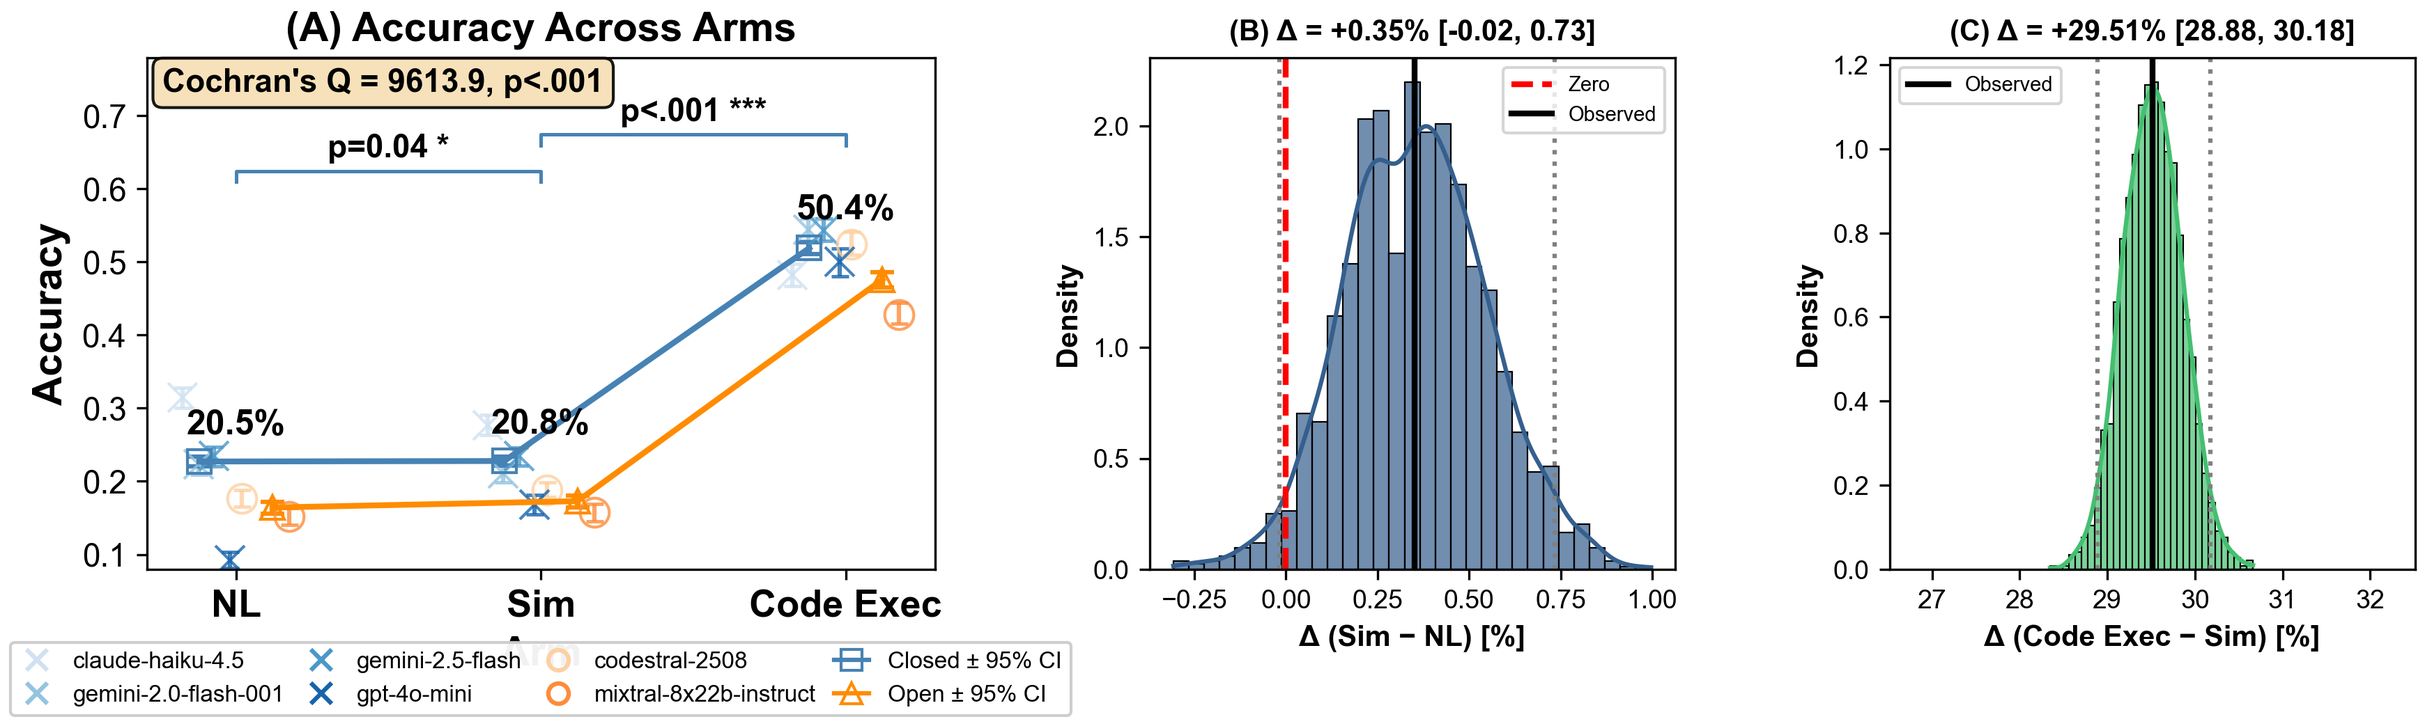
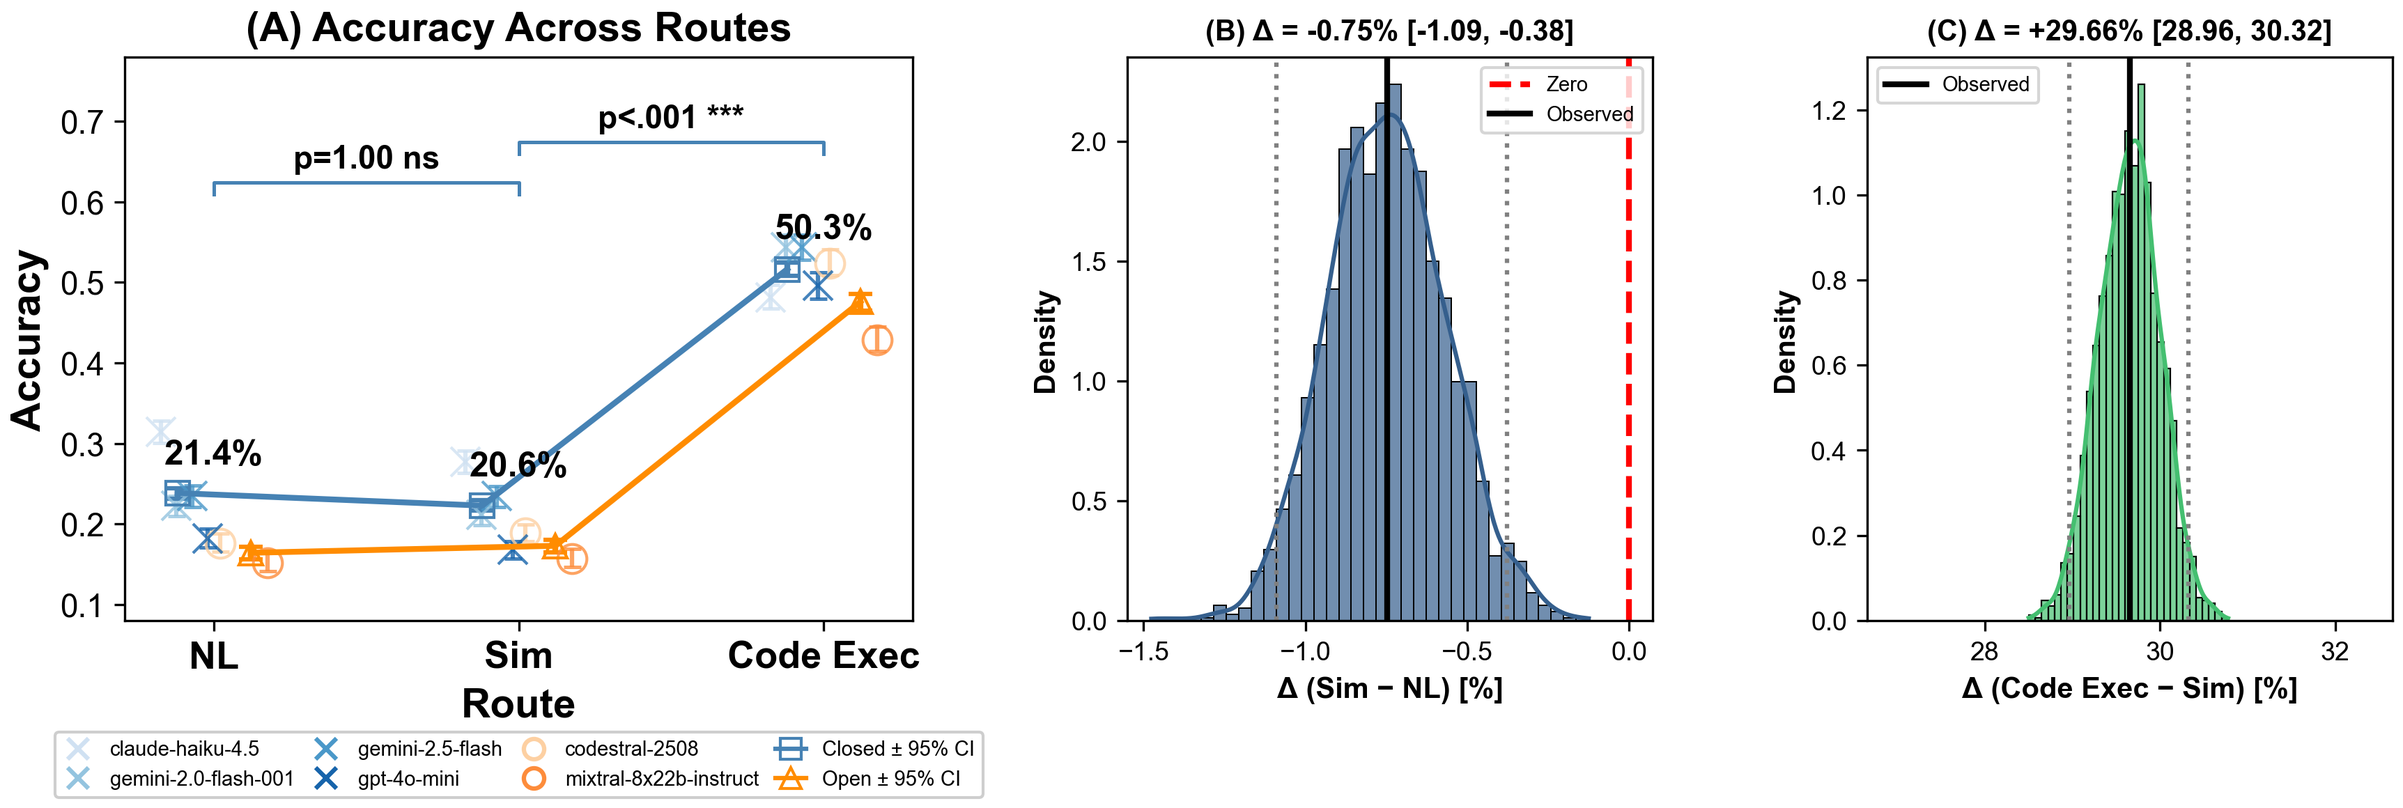
Updates from Overleaf

diff --git a/sections/1_introduction.tex b/sections/1_introduction.tex
@@ -1,6 +1,6 @@
 \section{Introduction} \label{sec:intro}
 
-Many agentic systems orchestrate symbolic solvers, LLMs and other tools, and demonstrate state-of-the-art performance ~\cite{gao2023pal,yao2023react, 10.5555/3666122.3669119, yang2024sweagent,wang2025mcpbenchbenchmarkingtoolusingllm}. Prior research empirically demonstrates that translating problems into solver-executable code representations (hereafter coined Route 2) and delegating execution often outperforms reasoning end-to-end in NL (hereafter coined Route 1) \yu{I am a bit confused what is hereafter coined Route 1, also you should link figure 1 in the introduction} on logic- and algorithmic-style complex reasoning tasks ~\cite{lyu2023faithful, pan2023logic}. However, it is unclear whether benefits come from the more structured code representation itself used in the planning and reasoning process, or the reliability of external solvers, or both. Little progress has been made in this direction since the problem itself is ill-posed: two routes learn fundamentally different objects, so there is no common formal target and metric to compare. 
+Many agentic systems orchestrate symbolic solvers, LLMs and other tools, and demonstrate state-of-the-art performance ~\cite{gao2023pal,yao2023react, 10.5555/3666122.3669119, yang2024sweagent,wang2025mcpbenchbenchmarkingtoolusingllm}. Prior research empirically demonstrates that translating problems into solver-executable code representations (hereafter denoted Route 2) and delegating execution often outperforms reasoning end-to-end in NL (hereafter denoted Route 1) on logic- and algorithmic-style complex reasoning tasks ~\cite{lyu2023faithful, pan2023logic}. However, it is unclear whether benefits come from the more structured code representation itself used in the planning and reasoning process, or the reliability of external solvers, or both. Little progress has been made in this direction since the problem itself is ill-posed: two routes learn fundamentally different objects, so there is no common formal target and metric to compare. 
 
 \begin{figure}[t]
     \centering
@@ -11,9 +11,19 @@ Many agentic systems orchestrate symbolic solvers, LLMs and other tools, and dem
     \label{fig:three_routes}
 \end{figure}
 
-This paper presents a systematic three-route framework (\cref{sec:framework}) breaks down the question into tractable pairwise comparisons between the different routes. We decouple the end-to-end pipeline into a trace generation phase (e.g. Chain of Thought \cite{wei2022chain}) and an execution phase (see \cref{def:trace}). This allows us to fix one phase, and make causal claims on the effects of phase on end-to-end reasoning performance. We first instantiate this framework to verify the overall ordering Route 1 (NL + NL Reasoning) $\leq$ Route 2 (Code + NL Reasoning) $<$ Route 3 (Code +  Python Execution) holds (\cref{sec:empirical}). Solver-based execution results (+29.9\% v.s. NL reasoning)  in best performance across different models \texttt{(Mistral}~\cite{jiang2023mistral}, \texttt{OpenAI}~\cite{achiam2023gpt4}, \texttt{Gemini}~\cite{team2023gemini}, \texttt{Claude}~\cite{anthropic2024claude}).), tasks \texttt{(CLRS30}~\cite{velivckovic2022clrs}, \texttt{NP-Hard-Eval}~\cite{fan2023nphardeval}, Custom Eval Suite) and seeds $\{0,1,2\}$. Our results suggest Route 3 (Code + Python Execution) is optimal (\cref{fig:main,fig:per_task_accuracy}). To understand where language is bottlenecked, we operationalize our framework below. 
 
-When analyzing the pair Route 1 v.s. Route 2 (\cref{sec:rep_analysis}), we fix the execution phase to be a LLM with NL reasoning, and vary the representation \yu{representation modality} of its Chain-of-Thought to be either code or NL. Because our goal is to optimize the end-to-end reasoning pipeline rather than any particular instantiation of it, we evaluate representations and executors in terms of their computation-constrained optimal risk (hereafter optimal risk; \cref{def:risk}). This criterion captures the best achievable performance within a model family and abstracts away suboptimal prompt or executor choices. We propose sufficient conditions such that the optimal risk of code is never worse than language up to a small amount of error $\varepsilon$ (\cref{prop:dominance}). Furthermore, we empirically verify these conditions through two experiments that show that natural language is an approximate garbling of code (\cref{sec:dist_similarity,sec:func_similarity}).
+\begin{figure*}[t]
+    \centering
+    \vspace{-5pt}
+    \includegraphics[width=1\textwidth]{images/CleanShot 2026-01-28 at 16.25.56@2x.png}
+    \vspace{-25pt}
+    \caption{\textbf{Prompt templates for three-route evaluation.} \textbf{Route~1 (NL)}: LLM reasons in natural language only, code forbidden. \textbf{Route~2 (Sim)}: LLM generates Python \texttt{solution()} then simulates execution in NL. \textbf{Route~3 (Code)}: Same code executed in Python runtime. This isolates execution mechanism while controlling translation.}
+    \label{fig:route_prompts}
+\end{figure*}
+
+This paper presents a systematic three-route framework (\cref{fig:three_routes}) breaks down the question into tractable pairwise comparisons between the different routes. We decouple the end-to-end pipeline into a trace generation phase (e.g. Chain of Thought \cite{wei2022chain}) and an execution phase (see \cref{def:trace}). This allows us to fix one phase, and make causal claims on the effects of phase on end-to-end reasoning performance. We first instantiate this framework to verify the overall ordering Route 1 (NL + NL Reasoning) $\leq$ Route 2 (Code + NL Reasoning) $<$ Route 3 (Code +  Python Execution) holds (\cref{sec:empirical}). Solver-based execution results (+28.9\% v.s. NL reasoning)  in best performance across different models \texttt{(Mistral}~\cite{jiang2023mistral}, \texttt{OpenAI}~\cite{achiam2023gpt4}, \texttt{Gemini}~\cite{team2023gemini}, \texttt{Claude}~\cite{anthropic2024claude}).), tasks \texttt{(CLRS30}~\cite{velivckovic2022clrs}, \texttt{NP-Hard-Eval}~\cite{fan2023nphardeval}, Custom Eval Suite) and seeds $\{0,1,2\}$. Our results suggest Route 3 (Code + Python Execution) is optimal (\cref{fig:main,fig:per_task_accuracy}). To understand where language is bottlenecked, we operationalize our framework below. 
+
+When analyzing the pair Route 1 v.s. Route 2 (\cref{sec:rep_analysis}), we fix the execution phase to be a LLM with NL reasoning, and vary the representation modality of its Chain-of-Thought to be either code or NL. Because our goal is to optimize the end-to-end reasoning pipeline rather than any particular instantiation of it, we evaluate representations and executors in terms of their computation-constrained optimal risk (hereafter optimal risk; \cref{def:risk}). This criterion captures the best achievable performance within a model family and abstracts away suboptimal prompt or executor choices. We propose sufficient conditions such that the optimal risk of code is never worse than language up to a small amount of error $\varepsilon$ (\cref{prop:dominance}). Furthermore, we empirically verify these conditions through two experiments that show that natural language is an approximate garbling of code (\cref{sec:dist_similarity,sec:func_similarity}).
 
 We further analyze Route 2 v.s. Route 3 (\cref{sec:route2v3}), identifying execution to be the bottleneck. We find that when code is correct, execution always achieves lower expected loss than language, and when code is incorrect, the probability that Route 2 $>$ Route 3 is small. On an analysis of hardness scaling, we find that code execution (Route 3) scales much better as problems become more difficult, and that the probabilities of Route 2 $>$ Route 3 when code is wrong reduces as problems get harder. 
 % \yu{too dense, each paragraph should only have one focus, and some claims sound handwavy/overconfident, e.g., hinting at trace generation not being the bottleneck, (i.e. looks similar),}
@@ -33,14 +43,6 @@ We further analyze Route 2 v.s. Route 3 (\cref{sec:route2v3}), identifying execu
 
 % showing that the simulation route is at least as good as the direct route under mild regularity assumptions: the direct route is a Blackwell-garbled (information-degraded) version of the simulation route, and thus cannot be more informative for downstream decision-making. Finally, we empirically demonstrate that the solver route substantially outperforms the simulation route, highlighting additional gains from reliable external execution.
 
-\begin{figure*}[t]
-    \centering
-    \vspace{-5pt}
-    \includegraphics[width=1\textwidth]{images/CleanShot 2026-01-28 at 16.25.56@2x.png}
-    \vspace{-25pt}
-    \caption{\textbf{Prompt templates for three-route evaluation.} \textbf{Route~1 (NL)}: LLM reasons in natural language only, code forbidden. \textbf{Route~2 (Sim)}: LLM generates Python \texttt{solution()} then simulates execution in NL. \textbf{Route~3 (Code)}: Same code executed in Python runtime. This isolates execution mechanism while controlling translation.}
-    \label{fig:route_prompts}
-\end{figure*}
 
 % Using our framework, we consistently observe a three-route ordering across algorithmic reasoning tasks: the solver route performs best, followed by the simulation route, and then the direct route (\cref{fig:main,fig:per_task_accuracy}). Moreover, the solver route's advantage widens as task difficulty increases, with 4.01$\times$ odds of getting a correct answer for code over natural language reasoning. We evaluate our framework on CLRS30~\cite{velivckovic2022clrs}, NP-Hard-Eval~\cite{fan2023nphardeval}, and a custom suite of algorithmic problems with controllable difficulty (addition, multiplication, LCS, rod cutting, knapsack, and ILP variants: assignment, production, and partition) across a broad range of models, spanning weaker open-source LLMs (e.g., Mistral~\cite{jiang2023mistral}, LLaMA~\cite{touvron2023llama}, Qwen~\cite{yang2024qwen2}) and stronger closed-source systems (e.g., OpenAI~\cite{achiam2023gpt4}, Gemini~\cite{team2023gemini}, Claude~\cite{anthropic2024claude}). We find that, averaged over tasks and models, the solver route achieves XX\% accuracy, outperforming the simulation route (XX\%) and the direct route (XX\%) with statistical significance (XX). 
 
@@ -86,8 +88,8 @@ Our main contributions are:
 \begin{figure*}[t]
     \centering
     \vspace{-5pt}
-    \includegraphics[width=1\textwidth]{images/combined_accuracy_delta.png}
-    \vspace{-25pt}
+    \includegraphics[width=0.85\textwidth]{images/combined_accuracy_delta.png}
+    \vspace{-10pt}
     \caption{\textbf{Code + Solver Execution performs better than Direct NL reasoning quantified by end-task accuracy overall and within paired instances.} Paired instance contrasts are shown in the bootstrap distributions. Results are averaged over CLR30, NPHardEval, Custom Eval Suite, 3 seeds and 6 models. }
     \label{fig:main}
 \end{figure*}

diff --git a/sections/6_conclusion.tex b/sections/6_conclusion.tex
@@ -1,14 +1,16 @@
 \section{Conclusion}
 \label{sec:conclusion}
-We introduced a three-route Bayesian framework (\cref{sec:framework}) for comparing code and natural language representations in algorithmic reasoning. By introducing an intermediate route---code generation with LLM-based simulation---we isolate translation effects from execution effects, enabling tractable pairwise analysis. Empirically, code execution achieves 4.01$\times$ higher odds of correctness than NL reasoning ($p<0.001$) across 44 algorithmic tasks and 6 models (\cref{sec:performance}). Our causal intervention experiments (\cref{sec:rep_analysis}) demonstrate that NL reasoning traces are distributionally and functionally equivalent to code-translated traces, supporting the hypothesis that NL reasoning implicitly simulates underlying algorithmic computations for specific models,tasks and prompts. Theoretically, we prove that code-based reasoning achieves lower Bayes risk via Blackwell dominance (\cref{prop:dominance}), providing an information-theoretic explanation for the empirical advantages of solver-based pipelines.
+We introduced a three-route framework (\cref{sec:framework}) for comparing code and natural language representations in algorithmic reasoning. By introducing an intermediate route---code generation with LLM-based simulation---we isolate translation effects from execution effects, enabling tractable pairwise analysis. Empirically, code execution achieves +28.9\% v.s. NL across 48 algorithmic tasks and 6 models (\cref{sec:performance}). Our causal intervention experiments (\cref{sec:rep_analysis}) demonstrate that NL reasoning traces are distributionally and functionally equivalent to code-translated traces, supporting the hypothesis that NL reasoning implicitly simulates underlying algorithmic computations for specific models,tasks and prompts. Theoretically, we prove that code-based reasoning achieves lower Bayes risk via Blackwell dominance (\cref{prop:dominance}), providing an information-theoretic explanation for the empirical advantages of solver-based pipelines.
 
-\paragraph{Limitations}
+\textbf{Limitations.} (1)~\emph{Task scope}: Our evaluation focuses on algorithmic tasks (arithmetic, DP, ILP) with well-defined ground truth; results may not generalize to open-ended reasoning or tasks without clear algorithmic structure. (2)~\emph{Empirical approximations}: Our distributional similarity tests use finite samples and specific judge models, introducing estimation variance. Furthermore, there is room for optimization with the prompts of both judges and translators, or even running SFT on them. (3)~\emph{Model coverage}: While we evaluate both frontier (GPT-4o, Claude, Gemini) and open-source models (Mistral, Codestral), we cannot guarantee findings generalize to all architectures or future models. (4)~\emph{Theoretical assumptions}: The statistical analysis result assumes the existence of a garbling channel from code to NL, which we validate empirically but do not prove from first principles.
 
-\paragraph{Future Work}
+
+% \paragraph{Limitations}
+
+% \paragraph{Future Work}
 
 \section{Impact Statement}
 This paper presents work whose goal is to advance the field of machine learning. There are many potential societal consequences of our work, none of which we feel must be specifically highlighted here.
 
 
-% \textbf{Limitations.} (1)~\emph{Task scope}: Our evaluation focuses on algorithmic tasks (arithmetic, DP, ILP) with well-defined ground truth; results may not generalize to open-ended reasoning or tasks without clear algorithmic structure. (2)~\emph{Empirical approximations}: Our distributional similarity tests use finite samples and specific judge models, introducing estimation variance. (3)~\emph{Model coverage}: While we evaluate both frontier (GPT-4o, Claude, Gemini) and open-source models (Mistral, LLaMA), we cannot guarantee findings generalize to all architectures or future models. (4)~\emph{Theoretical assumptions}: The Blackwell dominance result assumes the existence of a garbling channel from code to NL, which we validate empirically but do not prove from first principles.
 

diff --git a/sections/3_experiment.tex b/sections/3_experiment.tex
@@ -2,7 +2,7 @@
 \label{sec:empirical}
 Our evaluation aims to answer the research questions (RQ): 
 \begin{enumerate}
-    \item[1)] Does $\text{Route~1} \simeq \text{Route~2} < \text{Route~3}$ hold? (\S\ref{sec:instantiation}, \S\ref{sec:performance})
+    \item[1)] Does $\text{Route~1} \leq \text{Route~2} < \text{Route~3}$ hold? (\S\ref{sec:instantiation}, \S\ref{sec:performance})
 \end{enumerate}
  % RQ 1 is central to the main thesis, and RQ 2 provides motivation to offload to an executor, as well as empirical foundations for the assumptions in  Section~\ref{sec:theory}.
 
@@ -122,8 +122,7 @@ Across all benchmarks (\cref{fig:main}), we reject the global null hypothesis
 \emph{Post-hoc tests show a statistically significant advantage of Route~3
 over Route~2}, with a positive paired accuracy gap excluding zero in the
 95\% confidence interval.
-For Route~1 vs.\ Route~2, although the null is rejected ($p = 0.04$), the
-bootstrap confidence interval overlaps zero, indicating that we cannot
+For Route~1 vs.\ Route~2 we do not reject the null, indicating that we cannot
 conclude a meaningful difference between natural-language reasoning
 and code simulation under this evaluation.
 Performance gaps widen with increasing task difficulty (\cref{fig:per_task_accuracy}): Route~3 remains
@@ -317,7 +316,7 @@ As a calibration control, we also ask the same judges to discriminate \emph{raw 
 \end{figure}
 
 \paragraph{Results.}
-Across $\sim$2000 samples per judge ($\sim$6000 total across three judges), discrimination accuracy is near chance (50\%), with 50\% included in the Wilson CI (\cref{fig:judge_barplot,fig:embedding_scatter}). The control discrimination between raw code and native NL is substantially higher (e.g., $\approx$79\%), indicating the judges can detect obvious representation differences but \emph{fail to distinguish translated vs.\ native NL}.
+Across $\sim$2000 samples per judge ($\sim$6000 total across three judges), discrimination accuracy is near chance (50\%), with 50\% included in the Wilson CI (\cref{fig:judge_barplot,fig:embedding_scatter}). The control discrimination between raw code and native NL is substantially higher (e.g., $\approx$82\%), indicating the judges can detect obvious representation differences but \emph{fail to distinguish translated vs.\ native NL}.
 
 % (49.4\% with 95\% Wilson CI [47.2\%, 51.5\%]; Figure~\ref{fig:discrimination_by_task}).
 
@@ -341,7 +340,7 @@ If translated NL loses decision-relevant information relative to native NL, we w
 \]
 
 \paragraph{Protocol and models.}
-We run this test on 1000 held-out instances across multiple translator models (\texttt{Claude Haiku 4.5, Gemini-2.5-Flash, Mixtral-8x22B-Instruct}).
+We run this test on 1000 held-out instances across multiple translator models (\texttt{Claude-Haiku-4.5, Gemini-2.5-Flash, Mixtral-8x22B-Instruct}).
 Crucially, in this experiment the translator model is matched to the original code generator (i.e., we translate code produced by the same model family), to avoid confounding functional losses with cross-model stylistic mismatch.
 
 \paragraph{Results.}

diff --git a/sections/0_abstract.tex b/sections/0_abstract.tex
@@ -2,7 +2,7 @@
 % Context: Establish the problem domain
 Large language models can solve algorithmic problems either through direct natural language (NL) reasoning or by generating executable code delegated to an external solver. However, little progress has been made on \emph{understanding why}. Comparing NL reasoning and solver-based pipelines directly is ill-posed: they differ simultaneously in representation space and execution mechanism.
 % Gap + Contribution: What's missing and what we provide
-We introduce a three-route framework that makes this comparison tractable by introducing an intermediary step---code generation with LLM-based execution. This enables our empirical analysis which shows a statistically significant gap supporting code $>$ NL by +29.9\% across 44 different algorithmic tasks and 6 models. A statistical analysis indicates that natural-language reasoning does not provide additional decision-relevant information beyond what is already captured by code representations. Consequently, replacing NL traces with code traces incurs minimal performance loss, while enabling deterministic execution. A systematic comparison of LLM-based reasoning and external execution further shows that execution, rather than trace representation, is the primary performance bottleneck.
+We introduce a three-route framework that makes this comparison tractable by introducing an intermediary step---code generation with LLM-based execution. This enables our empirical analysis which shows a statistically significant gap supporting code $>$ NL by +28.9\% across 48 different algorithmic tasks and 6 models. A statistical analysis indicates that natural-language reasoning does not provide additional decision-relevant information beyond what is already captured by code representations. Consequently, replacing NL traces with code traces incurs minimal performance loss, while enabling deterministic execution. A systematic comparison of LLM-based reasoning and external execution further shows that execution, rather than trace representation, is the primary performance bottleneck.
 
 % A statistical interpretation of  Route 1 v.s. Route 2 \yu{Route 1 and 2 are not defined here}reveals that NL reasoning does not contain decision-relevant information beyond what is already in code, indicating reasoning trace generation is not the bottleneck for language\yu{bottleneck for what, for accurately solving the task?}. Rather, a systematic study on how language reasoning and code function elucidates trace execution as the bottleneck.   
 

diff --git a/sections/2_framework.tex b/sections/2_framework.tex
@@ -118,6 +118,6 @@ The corresponding executor family is the singleton $\mathcal{H}_{\mathrm{Exec}} 
     \vspace{-5pt}
     \includegraphics[width=1\textwidth]{images/main_combined.png}
     \vspace{-25pt}
-    \caption{ \textbf{Code + Solver Execution scales better than natural language reasoning when problems get harder, both within-task and on average, interpolating and extrapolating.} $\tau$ is used to control digit length for arithmetic, table dimensionality for dynamic programming, and constraint matrix dimensionality for integer linear programming. The same data and setup is used from \cref{fig:three_routes}. }
+    \caption{ \textbf{Code + Solver Execution scales better than natural language reasoning when problems get harder, both within-task and on average, interpolating and extrapolating (grey) .} $\tau$ is used to control digit length for arithmetic, table dimensionality for dynamic programming, and constraint matrix dimensionality for integer linear programming. The same data and setup is used from \cref{fig:three_routes}. }
     \label{fig:per_task_accuracy}
 \end{figure*}

diff --git a/sections/4_theory.tex b/sections/4_theory.tex
@@ -253,7 +253,7 @@ Combined with the fact that $e_C$ is very high in practice, this explains why de
     \vspace{-5pt}
     \includegraphics[width=\linewidth]{images/recovery_vs_digits_overall.png}
     \vspace{-25pt}
-    \caption{\textbf{Recovery mass.} Frequency with which Route~2 is correct while Route~3 is incorrect on the \emph{same generated code trace}. This estimates $\Pr(\neg C)\,r$ in the decomposition above (and is an upper bound on ``recovery from flawed code'' due to possible solve-from-$X$ behavior). Recovery remains $<5\%$ across tasks and models.}
+    \caption{\textbf{Recovery mass (blue) $<$ 2\% on average and reduces as tasks get harder. On the other hand, LLM execution gets noisier compared to python execution (red) }. Recovery rate $\Pr(\neg C)\,r$ (Code Execution Fails but LLM Reasoning succeeds $|$ Incorrect Code) in blue trends down. Exec wins $\Pr(C)e_C$ (Code Execution succeeds and LLM reasoning fails $|$ Correct Code) increases as tasks get harder.}
     \label{fig:recovery_final}
 \end{figure}
 
